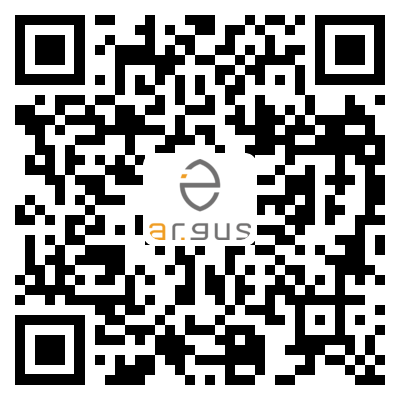
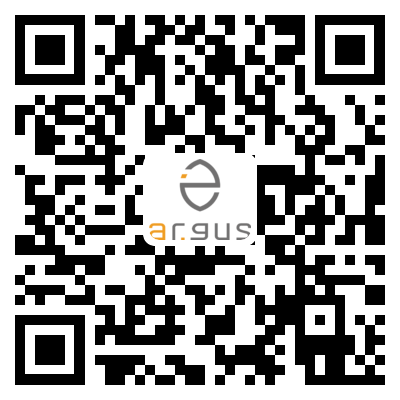
ip更改

Changed region(s): [[0.03, 0.03, 0.96, 0.96], [0.9, 0.36, 0.96, 0.45]]

diff --git a/www/config/config.js b/www/config/config.js
@@ -1,7 +1,7 @@
 var gTheme = 'light'; // 主题色 light/dark
 
 var loginExpireCheckEnable = false;       // 是否检查鉴权过期
-var defaultPlatIpAddr = ''; // 平台默认ip，格式为：http://118.190.51.135
+var defaultPlatIpAddr = 'http://47.117.113.159'; // 平台默认ip，格式为：http://118.190.51.135
 var defaultImgThumbHost = "";     // 如果为空则与 host一样
 var defaultIpcHost = null; // 摄像头服务地址。为空则与host一样
 var gQrDownloadUrl = '/version/qr.png'; // 二维码下载链接

diff --git a/gulpfile-release.js b/gulpfile-release.js
@@ -65,7 +65,7 @@ const connect = require("gulp-connect");
 
 gulp.task('compress-img', function () {
     gulp.src(folder.src + "img/**")
-        .pipe(imageMin())
+        // .pipe(imageMin())
         .pipe(gulp.dest(folder.dist + "img/"));
 });
 
